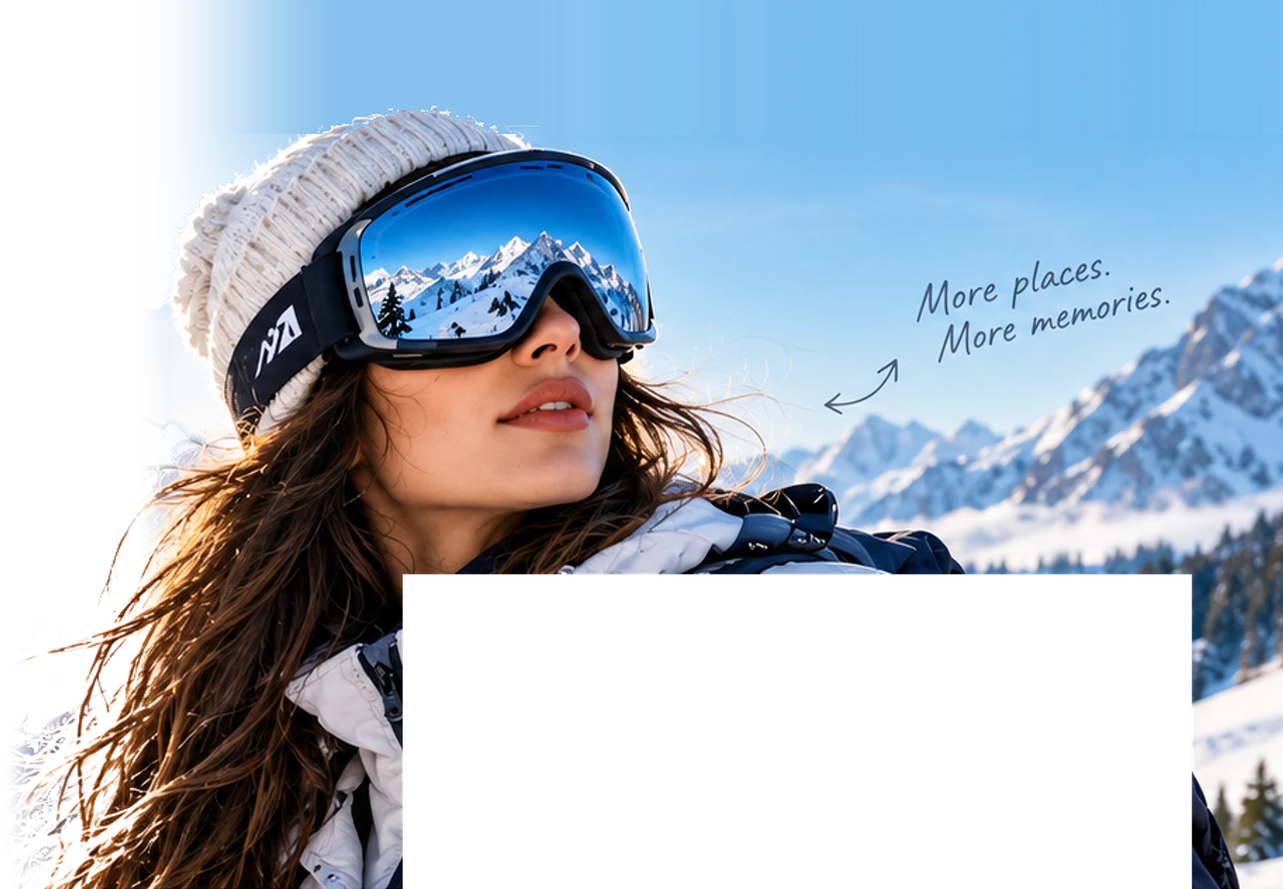
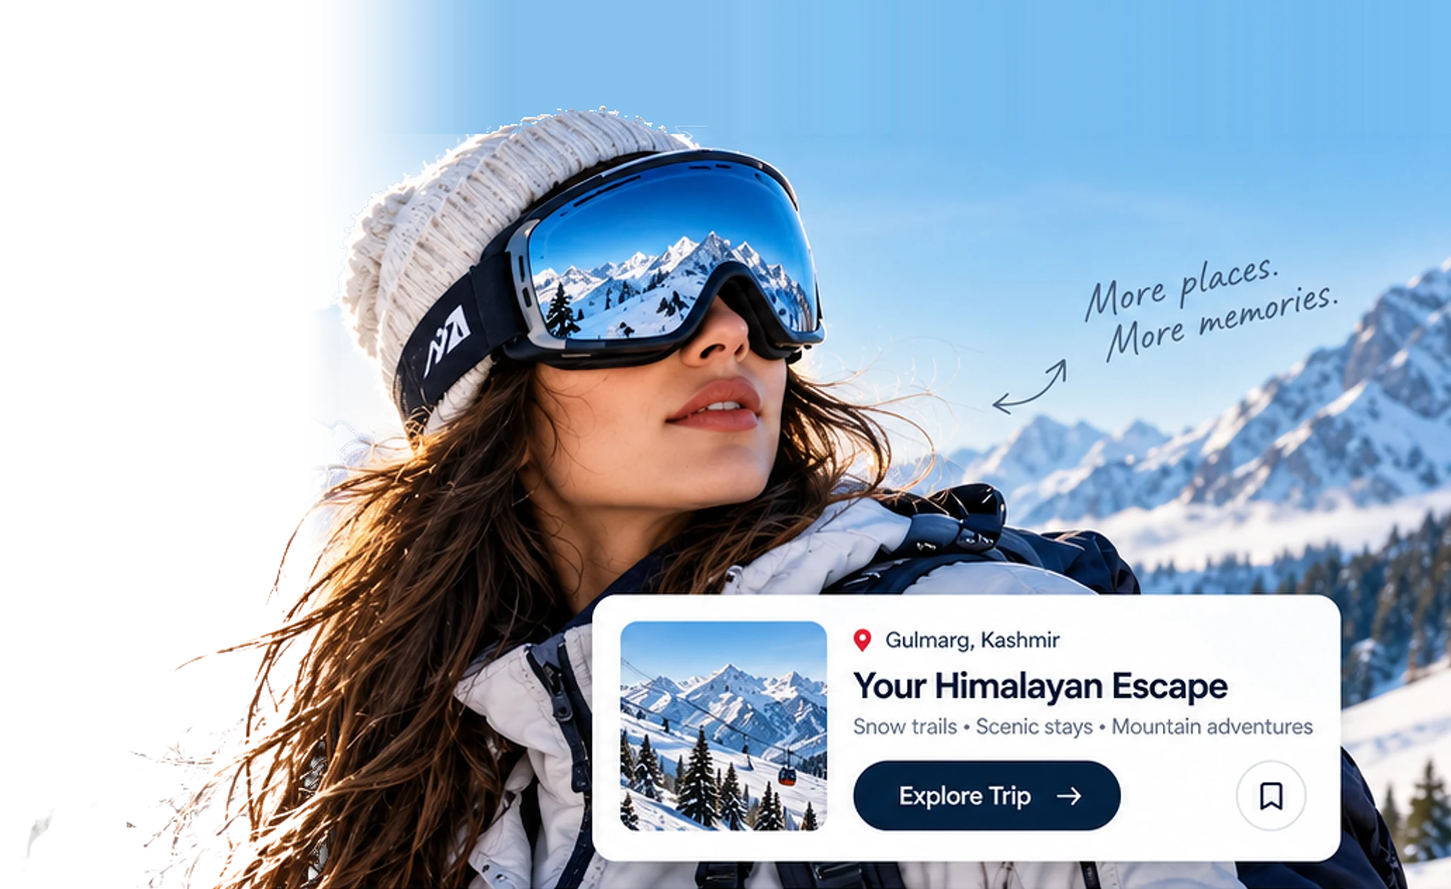
service_page

diff --git a/client/components/ServicesPage.tsx b/client/components/ServicesPage.tsx
@@ -1,7 +1,8 @@
 import React, { useState } from 'react';
 import { Link, useNavigate } from 'react-router-dom';
 import {
-  ArrowRight, Bookmark, Facebook, Instagram, Linkedin, MapPin, Menu, Minus, Play, Plus, Search, X, Youtube,
+  ArrowRight, Bookmark, Facebook, Instagram, Linkedin, MapPin, Menu, MessageCircle, Minus, Play, Plus, Search, X,
+  Youtube,
 } from 'lucide-react';
 import { servicePath } from '../data/winterPackages';
 import { getWhatsAppLink } from '../utils/whatsapp';
@@ -45,14 +46,14 @@ const SOCIALS = [
 ];
 
 const Brand: React.FC<{ light?: boolean }> = ({ light }) => (
-  <Link to="/" className="flex items-center gap-2.5 shrink-0" aria-label="Global Connect World Travel home">
-    <svg viewBox="0 0 64 36" className="w-12 h-7" aria-hidden="true">
+  <Link to="/" className="svc-brand flex items-center gap-2.5 shrink-0" aria-label="Global Connect World Travel home">
+    <svg viewBox="0 0 64 36" className="svc-brand-mark w-12 h-7" aria-hidden="true">
       <path d="M2 34 22 6l10 13 8-9 22 24h-9L40 20l-8 9L22 15 11 34z" fill={light ? '#14c8f5' : '#0b1630'} />
       <path d="M22 6 32 19l-4 5-6-9z" fill="#14c8f5" />
     </svg>
     <span className="leading-none">
-      <span className={`font-display block text-[19px] font-extrabold tracking-[-0.01em] ${light ? 'text-white' : 'text-[#0b1630]'}`}>WORLD TRAVEL</span>
-      <span className={`block mt-1 text-[8.5px] font-semibold tracking-[0.52em] ${light ? 'text-[#14c8f5]' : 'text-brand-dark/60'}`}>GLOBAL CONNECT</span>
+      <span className={`svc-brand-name font-display block text-[19px] font-extrabold tracking-[-0.01em] ${light ? 'text-white' : 'text-[#0b1630]'}`}>WORLD TRAVEL</span>
+      <span className={`svc-brand-tag block mt-1 text-[8.5px] font-semibold tracking-[0.52em] ${light ? 'text-[#14c8f5]' : 'text-brand-dark/60'}`}>GLOBAL CONNECT</span>
     </span>
   </Link>
 );
@@ -61,22 +62,22 @@ const Header: React.FC<{ onBookClick: () => void }> = ({ onBookClick }) => {
   const navigate = useNavigate();
   const [open, setOpen] = useState(false);
   return (
-    <header className="absolute z-30 top-3 lg:top-5 inset-x-3 lg:inset-x-[8.8vw]">
-      <div className="flex items-center gap-4 bg-white/95 backdrop-blur rounded-2xl lg:rounded-[22px] shadow-[0_10px_30px_rgba(2,40,91,0.10)] pl-5 pr-3 lg:pl-8 lg:pr-3 py-2.5">
+    <header className="svc-head absolute z-30 top-3 lg:top-5 inset-x-3 lg:inset-x-[4vw] xl:inset-x-[8.8vw]">
+      <div className="svc-head-bar flex items-center gap-4 bg-white/95 backdrop-blur rounded-2xl lg:rounded-[22px] shadow-[0_10px_30px_rgba(2,40,91,0.10)] pl-5 pr-3 lg:pl-8 lg:pr-3 py-2.5">
         <Brand />
-        <nav className="hidden lg:flex flex-1 justify-center gap-[2.6vw]">
+        <nav className="svc-nav hidden lg:flex flex-1 justify-center gap-[1.6vw]">
           {NAV.map(n => (
-            <Link key={n.to} to={n.to} className="text-[15px] font-medium text-[#0b1630] hover:text-[#0b8fd8] transition-colors">{n.label}</Link>
+            <Link key={n.to} to={n.to} className="whitespace-nowrap text-[14px] xl:text-[15px] font-medium text-[#0b1630] hover:text-[#0b8fd8] transition-colors">{n.label}</Link>
           ))}
         </nav>
-        <div className="ml-auto lg:ml-0 flex items-center gap-3">
-          <span className="hidden lg:block w-px h-8 bg-brand-dark/15" />
+        <div className="svc-head-right ml-auto lg:ml-0 flex items-center gap-3">
+          <span className="svc-div hidden xl:block w-px h-8 bg-brand-dark/15" />
           <button onClick={() => navigate('/search')} aria-label="Search tours"
-            className="hidden sm:flex w-11 h-11 rounded-full bg-slate-100 items-center justify-center hover:bg-slate-200 transition-colors">
+            className="svc-search hidden sm:flex lg:hidden xl:flex w-11 h-11 rounded-full bg-slate-100 items-center justify-center hover:bg-slate-200 transition-colors">
             <Search className="w-[18px] h-[18px] text-[#0b1630]" />
           </button>
-          <span className="hidden lg:block w-px h-8 bg-brand-dark/15" />
-          <button onClick={onBookClick} className={`${btnCyan} px-5 lg:px-6 py-2.5 lg:py-3 text-[15px]`}>
+          <span className="svc-div hidden xl:block w-px h-8 bg-brand-dark/15" />
+          <button onClick={onBookClick} className={`svc-plan ${btnCyan} max-sm:!hidden whitespace-nowrap shrink-0 px-5 lg:px-6 py-2.5 lg:py-3 text-[15px]`}>
             Plan My Trip <ArrowRight className="w-4 h-4" />
           </button>
           <button onClick={() => setOpen(v => !v)} aria-expanded={open} aria-label="Menu"
@@ -90,6 +91,9 @@ const Header: React.FC<{ onBookClick: () => void }> = ({ onBookClick }) => {
           {NAV.map(n => (
             <Link key={n.to} to={n.to} onClick={() => setOpen(false)} className="px-4 py-3 rounded-xl font-medium text-[#0b1630] hover:bg-slate-50">{n.label}</Link>
           ))}
+          <button onClick={() => { setOpen(false); onBookClick(); }} className={`sm:hidden ${btnCyan} justify-center m-2 px-5 py-3`}>
+            Plan My Trip <ArrowRight className="w-4 h-4" />
+          </button>
         </nav>
       )}
     </header>
@@ -152,32 +156,32 @@ const PageFooter: React.FC<{ onBookClick: () => void }> = ({ onBookClick }) => (
 const Hero: React.FC<{ onBookClick: () => void }> = ({ onBookClick }) => {
   const [saved, setSaved] = useState(false);
   return (
-    <section className="relative overflow-hidden w-full flex flex-col lg:min-h-[calc(44.4vw+400px)] bg-[#eaf2f9]">
+    <section className="svc-hero relative overflow-hidden w-full flex flex-col lg:min-h-[calc(44.4vw+400px)] bg-[#eaf2f9]">
       <Header onBookClick={onBookClick} />
       {/* Full-width snowy scene behind everything, with a light wash so the headline reads */}
       <div className="absolute inset-0 bg-[url('/images/services/hero-scene.webp')] bg-cover bg-no-repeat bg-[position:center_35%]" />
       <div className="absolute inset-0 bg-white/60 lg:bg-transparent lg:bg-gradient-to-r lg:from-white/55 lg:via-white/15 lg:to-transparent" />
 
-      {/* Original banner photo from the design. Phones: full width above the text, cropped above
-          the card printed into the photo. Desktop: on the right, standing on the destination strip,
-          with the live trip card sitting exactly over the printed one. */}
-      <div className="relative z-[1] order-first w-full aspect-[912/400] max-lg:mt-[76px] min-h-0 overflow-hidden lg:order-none lg:absolute lg:bottom-[330px] lg:right-0 lg:w-[64vw] lg:aspect-[912/632] lg:[--woman-shift:8%_0]">
-        <img src={S + 'hero-woman-wide.webp'} alt="Traveller in a white beanie and ski goggles in the snowy Himalayas" fetchPriority="high" style={{ translate: 'var(--woman-shift, 0)' }}
-          className="w-full h-full object-cover object-top [mask-image:linear-gradient(to_bottom,#000_80%,transparent)] lg:[mask-image:linear-gradient(to_bottom,transparent,#000_8%,#000_68%,rgba(0,0,0,0.55)_84%,transparent_97%)]" />
+      {/* Original banner photo from the design. Phones: full width above the text, cropped above the
+          printed card. Desktop: on the right with the live trip card over the printed one; at 1280px+
+          everything in this hero is placed at the design file's exact positions (index.css, .svc-*). */}
+      <div className="svc-woman max-lg:hidden relative z-[1] order-first w-full aspect-[1032/400] max-sm:aspect-[1.6] max-lg:mt-[76px] min-h-0 overflow-hidden lg:order-none lg:absolute lg:bottom-[330px] lg:right-0 lg:w-[64vw] lg:aspect-[1032/632]">
+        <img src={S + 'hero-woman-wide.webp'} alt="Traveller in a white beanie and ski goggles in the snowy Himalayas" fetchPriority="high"
+          className="svc-woman-img w-full h-full object-cover object-top max-sm:w-[165%] max-sm:max-w-none max-sm:h-auto max-sm:-ml-[24%] [mask-image:linear-gradient(to_bottom,#000_80%,transparent)] lg:[mask-image:linear-gradient(to_bottom,transparent,#000_8%,#000_90%,transparent)]" />
 
-        {/* featured trip card */}
-        <div className="hidden lg:flex absolute left-[36.5%] top-[65.2%] w-[60.4%] h-[32.2%] gap-4 bg-white rounded-2xl p-3.5 shadow-[0_20px_50px_rgba(2,40,91,0.18)]">
+        {/* featured trip card, laid over the one printed in the photo */}
+        <div className="svc-card hidden lg:flex absolute left-[39.73%] top-[65.2%] w-[53.39%] h-[32.2%] gap-4 bg-white rounded-2xl p-3.5 shadow-[0_20px_50px_rgba(2,40,91,0.18)]">
           <img src={S + 'card-gulmarg.webp'} alt="Gondola over snowy peaks and pine trees in Gulmarg" className="h-full aspect-square rounded-xl object-cover" />
           <div className="flex-1 min-w-0 flex flex-col justify-center">
-            <p className="flex items-center gap-1.5 text-xs text-brand-dark/70"><MapPin className="w-3.5 h-3.5 text-red-500 fill-red-500/20" /> Gulmarg, Kashmir</p>
-            <p className="font-display mt-1 text-xl font-bold tracking-[-0.02em] text-[#0b1630]">Your Himalayan Escape</p>
-            <p className="text-xs text-brand-dark/55">Snow trails • Scenic stays • Mountain adventures</p>
-            <div className="mt-3 flex items-center justify-between">
-              <Link to={servicePath('kashmir')} className="inline-flex items-center gap-2 bg-[#0b1630] text-white text-sm font-semibold px-5 py-2.5 rounded-full hover:bg-brand-dark transition-colors">
+            <p className="svc-card-loc flex items-center gap-1.5 text-[11px] xl:text-xs text-brand-dark/70"><MapPin className="w-3.5 h-3.5 text-red-500 fill-red-500/20" /> Gulmarg, Kashmir</p>
+            <p className="svc-card-title font-display mt-0.5 xl:mt-1 text-[17px] xl:text-xl leading-tight font-bold tracking-[-0.02em] text-[#0b1630]">Your Himalayan Escape</p>
+            <p className="svc-card-sub hidden xl:block text-xs text-brand-dark/55">Snow trails • Scenic stays • Mountain adventures</p>
+            <div className="svc-card-row mt-2 xl:mt-3 flex items-center justify-between">
+              <Link to={servicePath('kashmir')} className="svc-card-btn inline-flex items-center gap-2 bg-[#0b1630] text-white text-xs xl:text-sm font-semibold px-4 xl:px-5 py-2 xl:py-2.5 rounded-full hover:bg-brand-dark transition-colors">
                 Explore Trip <ArrowRight className="w-4 h-4" />
               </Link>
               <button onClick={() => setSaved(v => !v)} aria-pressed={saved} aria-label={saved ? 'Remove from saved trips' : 'Save this trip'}
-                className="w-10 h-10 rounded-full border border-brand-dark/15 flex items-center justify-center hover:bg-slate-50">
+                className="svc-card-save w-8 h-8 xl:w-10 xl:h-10 rounded-full border border-brand-dark/15 flex items-center justify-center hover:bg-slate-50">
                 <Bookmark className={`w-4 h-4 text-brand-dark ${saved ? 'fill-brand-dark' : ''}`} />
               </button>
             </div>
@@ -185,22 +189,22 @@ const Hero: React.FC<{ onBookClick: () => void }> = ({ onBookClick }) => {
         </div>
       </div>
 
-      <div className="relative z-10 lg:flex-1 w-full mx-auto px-5 md:px-10 lg:px-[7vw] pt-8 lg:pt-[150px] pb-10 pointer-events-none [&_a]:pointer-events-auto">
-        <p className="flex items-center gap-3 text-xs font-semibold tracking-[0.18em] text-brand-dark/70 uppercase">
+      <div className="svc-copy relative z-10 lg:flex-1 w-full mx-auto px-5 md:px-10 lg:px-[7vw] pt-[112px] lg:pt-[150px] pb-10 pointer-events-none [&_a]:pointer-events-auto">
+        <p className="svc-eyebrow flex items-center gap-3 text-xs font-semibold tracking-[0.18em] text-brand-dark/70 uppercase">
           <span className="w-10 h-px bg-brand-dark/50" /> Explore Incredible India
         </p>
-        <h1 className="font-display mt-4 text-[44px] sm:text-6xl lg:text-[clamp(60px,5.5vw,112px)] font-extrabold leading-[0.95] tracking-[-0.045em] text-[#0b1630] whitespace-nowrap">
+        <h1 className="svc-h1 font-display mt-4 text-[clamp(32px,10.4vw,44px)] sm:text-6xl lg:text-[clamp(60px,5.5vw,112px)] font-extrabold leading-[0.95] tracking-[-0.045em] text-[#0b1630] whitespace-nowrap">
           Chase Mountains.<br />Make Memories.
         </h1>
-        <p className="mt-5 text-lg md:text-xl lg:text-[clamp(20px,1.4vw,28px)] text-brand-dark/75 max-w-[34vw] max-lg:max-w-lg">
+        <p className="svc-sub mt-5 text-lg md:text-xl lg:text-[clamp(20px,1.4vw,28px)] text-brand-dark/75 max-w-[34vw] max-lg:max-w-lg">
           Discover breathtaking escapes, handpicked stays and unforgettable journeys across India.
         </p>
 
-        <div className="mt-8 flex flex-wrap items-center gap-6">
-          <Link to="/india-tours" className={`${btnCyan} px-8 py-4 text-lg`}>
+        <div className="svc-ctas mt-8 flex flex-wrap items-center gap-6">
+          <Link to="/india-tours" className={`svc-cta-main ${btnCyan} px-8 py-4 text-lg`}>
             Explore Tours <ArrowRight className="w-5 h-5" />
           </Link>
-          <Link to="/about" className="group flex items-center gap-4">
+          <Link to="/about" className="svc-watch group flex items-center gap-4">
             <span className="w-14 h-14 rounded-full bg-white shadow-lg flex items-center justify-center group-hover:scale-105 transition-transform">
               <Play className="w-5 h-5 text-brand-dark fill-brand-dark ml-0.5" />
             </span>
@@ -211,15 +215,15 @@ const Hero: React.FC<{ onBookClick: () => void }> = ({ onBookClick }) => {
           </Link>
         </div>
 
-        <ul className="mt-10 flex flex-wrap items-center text-white text-base font-semibold"
+        <ul className="svc-hl mt-10 flex flex-wrap items-center text-white text-base font-semibold"
           style={{ textShadow: '0 1px 2px rgba(2,22,48,0.95), 0 2px 12px rgba(2,22,48,0.8)' }}>
           {HIGHLIGHTS.map((h, i) => (
-            <li key={h} className={`py-1 pr-6 ${i ? 'pl-6 border-l border-white/80' : ''}`}>{h}</li>
+            <li key={h} className={`py-1 pr-4 sm:pr-6 ${i ? 'sm:pl-6 sm:border-l border-white/80' : ''}`}>{h}</li>
           ))}
         </ul>
       </div>
 
-      <div className="relative z-20 w-full mx-auto px-5 md:px-10 lg:px-[3.7vw] pb-10">
+      <div className="svc-strip-wrap relative z-20 w-full mx-auto px-5 md:px-10 lg:px-[3.7vw] pb-10">
         <Escapes onBookClick={onBookClick} />
       </div>
     </section>
@@ -228,8 +232,8 @@ const Hero: React.FC<{ onBookClick: () => void }> = ({ onBookClick }) => {
 
 // ---------- destination strip ----------
 const Escapes: React.FC<{ onBookClick: () => void }> = ({ onBookClick }) => (
-  <div className="bg-white rounded-3xl shadow-[0_24px_60px_rgba(2,40,91,0.14)] p-4 md:p-5 grid gap-4 grid-cols-1 sm:grid-cols-2 lg:grid-cols-[1.35fr_1fr_1fr_1fr_1.6fr]">
-    <div className="flex flex-col justify-center px-3 py-3 sm:col-span-2 lg:col-span-1">
+  <div className="svc-strip bg-white rounded-3xl shadow-[0_24px_60px_rgba(2,40,91,0.14)] p-4 md:p-5 grid gap-4 grid-cols-1 sm:grid-cols-3 lg:grid-cols-[1.35fr_1fr_1fr_1fr_1.6fr]">
+    <div className="svc-strip-intro flex flex-col justify-center px-3 py-3 sm:col-span-3 lg:col-span-1">
       <p className="flex items-center gap-3 text-[11px] font-semibold tracking-[0.15em] text-brand-dark/60 uppercase">
         <span className="w-7 h-px bg-brand-dark/40" /> Explore India
       </p>
@@ -242,16 +246,16 @@ const Escapes: React.FC<{ onBookClick: () => void }> = ({ onBookClick }) => (
     </div>
 
     {ESCAPES.map(e => (
-      <Link key={e.id} to={servicePath(e.id)} className="group relative h-[170px] lg:h-[210px] rounded-2xl overflow-hidden">
+      <Link key={e.id} to={servicePath(e.id)} className="svc-tile group relative h-[170px] lg:h-[210px] rounded-2xl overflow-hidden">
         <img src={e.img} alt={e.alt} loading="lazy" className="w-full h-full object-cover group-hover:scale-105 transition-transform duration-500" />
         <div className="absolute inset-0 bg-gradient-to-t from-black/55 via-transparent to-transparent" />
-        <span className="absolute left-4 bottom-3.5 flex items-center gap-2 text-white text-lg font-semibold">
+        <span className="svc-tile-label absolute left-4 bottom-3.5 flex items-center gap-2 text-white text-lg font-semibold">
           <MapPin className="w-5 h-5 fill-white text-white [&>circle]:fill-black/40" /> {e.name}
         </span>
       </Link>
     ))}
 
-    <div className="relative h-[170px] lg:h-[210px] rounded-2xl overflow-hidden sm:col-span-2 lg:col-span-1 bg-[#0b1630] bg-[url('/images/services/journey-card.webp')] bg-cover bg-[position:right_center]">
+    <div className="svc-journey relative h-[170px] lg:h-[210px] rounded-2xl overflow-hidden sm:col-span-3 lg:col-span-1 bg-[#0b1630] bg-[url('/images/services/journey-card.webp')] bg-cover bg-[position:right_center]">
       <div className="absolute inset-0 bg-gradient-to-r from-[#0b1630] via-[#0b1630]/75 to-transparent" />
       <div className="relative h-full flex flex-col justify-center px-6 text-white">
         <p className="font-display text-[28px] font-bold leading-[1.05] tracking-[-0.03em]">A journey<br />made for you.</p>
@@ -309,10 +313,40 @@ const Faq: React.FC = () => {
   );
 };
 
+// ---------- call to action ----------
+const CallToAction: React.FC<{ onBookClick: () => void }> = ({ onBookClick }) => (
+  <section className="px-5 md:px-10 lg:px-[3.7vw] pb-14 md:pb-20">
+    <div className="relative overflow-hidden rounded-3xl lg:rounded-[28px] bg-[#0b1630] bg-[url('/images/services/cta-woman.webp')] bg-cover bg-[position:center_35%] max-lg:bg-[position:40%_35%] shadow-[0_24px_60px_rgba(2,40,91,0.18)]">
+      <div className="absolute inset-0 bg-gradient-to-r from-[#0b1630] from-5% via-[#0b1630]/75 via-40% to-transparent to-68% max-md:to-[#0b1630]/55 max-md:to-100%" />
+      <div className="relative px-6 py-12 md:px-14 md:py-16 lg:px-[5vw] lg:py-[4.5vw] max-w-3xl text-white">
+        <p className="flex items-center gap-3 text-xs font-semibold tracking-[0.15em] text-[#14c8f5] uppercase">
+          <span className="w-10 h-0.5 bg-[#14c8f5]" /> Plan with an expert
+        </p>
+        <h2 className="font-display mt-4 text-[36px] md:text-[52px] lg:text-[clamp(48px,3.6vw,68px)] font-extrabold leading-[1] tracking-[-0.045em]">
+          Ready for your<br />next escape?
+        </h2>
+        <p className="mt-5 text-base md:text-lg text-white/85 max-w-xl">
+          Tell us your dates, group size and budget. Our travel experts will send you a tailored itinerary and quote, usually within a day.
+        </p>
+        <div className="mt-8 flex flex-wrap items-center gap-4">
+          <button onClick={onBookClick} className={`${btnCyan} px-8 py-4 text-lg`}>
+            Plan My Trip <ArrowRight className="w-5 h-5" />
+          </button>
+          <a href={getWhatsAppLink('Hi! I would like to plan a trip in India.')} target="_blank" rel="noopener noreferrer"
+            className="inline-flex items-center gap-3 border border-white/70 text-white font-semibold rounded-full px-7 py-4 text-lg hover:bg-white hover:text-[#0b1630] transition-colors">
+            <MessageCircle className="w-5 h-5" /> WhatsApp Us
+          </a>
+        </div>
+      </div>
+    </div>
+  </section>
+);
+
 const ServicesPage: React.FC<{ onBookClick: () => void }> = ({ onBookClick }) => (
   <div className="bg-white">
     <Hero onBookClick={onBookClick} />
     <Faq />
+    <CallToAction onBookClick={onBookClick} />
     <PageFooter onBookClick={onBookClick} />
   </div>
 );

diff --git a/client/index.css b/client/index.css
@@ -135,3 +135,78 @@ html {
 .font-display {
     font-family: 'Inter Tight', var(--font-sans) !important;
 }
+
+/* /services highlights: dark text below 1024px, where light snow sits behind them */
+@media (max-width: 1023px) {
+    .svc-hl { color: #0b1630; text-shadow: none !important; }
+    .svc-hl li { border-color: rgba(11, 22, 48, 0.25); }
+}
+
+/* ---------- /services hero: exact design layout on screens 1280px and wider ----------
+   Every number below is a pixel position measured on the 1672x941 design file
+   ("Kashmir Escape" mockup); --u is one design pixel at the current banner width. */
+@media (min-width: 1280px) {
+    .svc-hero { container-type: inline-size; display: block; aspect-ratio: 1672 / 941; min-height: 0; --u: calc(100cqw / 1672); }
+
+    .svc-head { top: calc(30 * var(--u)); left: calc(118 * var(--u)); right: calc(117 * var(--u)); }
+    .svc-head-bar { height: calc(76 * var(--u)); padding: 0 calc(18 * var(--u)) 0 calc(40 * var(--u)); border-radius: calc(26 * var(--u)); gap: 0; }
+    .svc-head .svc-brand { gap: calc(13 * var(--u)); }
+    .svc-head .svc-brand-mark { width: calc(77 * var(--u)); height: calc(36 * var(--u)); }
+    .svc-head .svc-brand-name { font-size: calc(27 * var(--u)); }
+    .svc-head .svc-brand-tag { font-size: calc(10 * var(--u)); margin-top: calc(5 * var(--u)); letter-spacing: 0.58em; }
+    .svc-nav { flex: none; justify-content: flex-start; margin-left: calc(106 * var(--u)); gap: calc(41 * var(--u)); }
+    .svc-nav a { font-size: calc(17 * var(--u)); }
+    .svc-head-right { margin-left: auto; gap: calc(20 * var(--u)); }
+    .svc-div { height: calc(36 * var(--u)); }
+    .svc-search { width: calc(50 * var(--u)); height: calc(50 * var(--u)); }
+    .svc-search svg { width: calc(20 * var(--u)); height: calc(20 * var(--u)); }
+    .svc-plan { height: calc(54 * var(--u)); padding: 0 calc(24 * var(--u)) 0 calc(32 * var(--u)); font-size: calc(18 * var(--u)); gap: calc(12 * var(--u)); }
+    .svc-plan svg { width: calc(20 * var(--u)); height: calc(20 * var(--u)); }
+
+    .svc-woman { position: absolute; left: calc(640 * var(--u)); top: calc(18 * var(--u)); right: auto; bottom: auto; width: calc(1032 * var(--u)); height: calc(632 * var(--u)); aspect-ratio: auto; margin: 0; }
+    .svc-woman-img { mask-image: linear-gradient(to bottom, transparent, #000 8%); -webkit-mask-image: linear-gradient(to bottom, transparent, #000 8%); }
+    .svc-card { left: 40.7%; top: 66.6%; width: 51.8%; height: 30.3%; padding: calc(19 * var(--u)); gap: calc(18 * var(--u)); border-radius: calc(22 * var(--u)); }
+    .svc-card > img { border-radius: calc(14 * var(--u)); }
+    .svc-card-loc { font-size: calc(14.5 * var(--u)); gap: calc(7 * var(--u)); }
+    .svc-card-loc svg { width: calc(17 * var(--u)); height: calc(17 * var(--u)); }
+    .svc-card-title { font-size: calc(26 * var(--u)); margin-top: calc(6 * var(--u)); }
+    .svc-card-sub { font-size: calc(14.5 * var(--u)); margin-top: calc(4 * var(--u)); }
+    .svc-card-row { margin-top: calc(18 * var(--u)); }
+    .svc-card-btn { height: calc(48 * var(--u)); padding: 0 calc(24 * var(--u)) 0 calc(32 * var(--u)); font-size: calc(17 * var(--u)); gap: calc(14 * var(--u)); }
+    .svc-card-btn svg { width: calc(20 * var(--u)); height: calc(20 * var(--u)); }
+    .svc-card-save { width: calc(48 * var(--u)); height: calc(48 * var(--u)); }
+    .svc-card-save svg { width: calc(19 * var(--u)); height: calc(19 * var(--u)); }
+
+    .svc-copy { position: absolute; inset: 0; padding: 0; margin: 0; max-width: none; }
+    .svc-eyebrow { position: absolute; left: calc(120 * var(--u)); top: calc(163 * var(--u)); margin: 0; font-size: calc(14 * var(--u)); letter-spacing: 0.06em; gap: calc(15 * var(--u)); }
+    .svc-eyebrow span { width: calc(40 * var(--u)); }
+    .svc-h1 { position: absolute; left: calc(114 * var(--u)); top: calc(196 * var(--u)); margin: 0; font-size: calc(92 * var(--u)); line-height: calc(85 * var(--u)); letter-spacing: -0.022em; }
+    .svc-sub { position: absolute; left: calc(121 * var(--u)); top: calc(375 * var(--u)); margin: 0; font-size: calc(23 * var(--u)); line-height: calc(32 * var(--u)); max-width: calc(545 * var(--u)); }
+    .svc-ctas { position: absolute; left: calc(118 * var(--u)); top: calc(468 * var(--u)); margin: 0; gap: calc(24 * var(--u)); }
+    .svc-cta-main { height: calc(69 * var(--u)); padding: 0 calc(38 * var(--u)) 0 calc(44 * var(--u)); font-size: calc(20 * var(--u)); gap: calc(14 * var(--u)); }
+    .svc-cta-main svg { width: calc(24 * var(--u)); height: calc(24 * var(--u)); }
+    .svc-watch { gap: calc(21 * var(--u)); }
+    .svc-watch > span:first-child { width: calc(68 * var(--u)); height: calc(68 * var(--u)); }
+    .svc-watch > span:first-child svg { width: calc(22 * var(--u)); height: calc(22 * var(--u)); }
+    .svc-watch > span:last-child > span { font-size: calc(20 * var(--u)); line-height: calc(24 * var(--u)); }
+    .svc-hl { position: absolute; left: calc(122 * var(--u)); top: calc(578 * var(--u)); margin: 0; font-size: calc(18.5 * var(--u)); }
+    .svc-hl li { display: flex; align-items: center; height: calc(40 * var(--u)); padding: 0 calc(23 * var(--u)) 0 0; }
+    .svc-hl li + li { padding-left: calc(33 * var(--u)); }
+
+    .svc-strip-wrap { position: absolute; left: calc(62 * var(--u)); top: calc(650 * var(--u)); width: calc(1548 * var(--u)); height: calc(252 * var(--u)); padding: 0; margin: 0; max-width: none; }
+    .svc-strip { height: 100%; padding: calc(20 * var(--u)); gap: calc(20 * var(--u)); border-radius: calc(26 * var(--u)); grid-template-columns: 301fr 242fr 245fr 243fr 397fr; }
+    .svc-strip-intro { padding: 0 0 0 calc(18 * var(--u)); }
+    .svc-strip-intro > p { font-size: calc(13.5 * var(--u)); gap: calc(14 * var(--u)); letter-spacing: 0.06em; }
+    .svc-strip-intro > p span { width: calc(34 * var(--u)); }
+    .svc-strip-intro > h2 { font-size: calc(47 * var(--u)); line-height: calc(48 * var(--u)); margin-top: calc(10 * var(--u)); letter-spacing: -0.045em; }
+    .svc-strip-intro > a { margin-top: calc(22 * var(--u)); height: calc(56 * var(--u)); padding: 0 calc(30 * var(--u)) 0 calc(42 * var(--u)); font-size: calc(18 * var(--u)); gap: calc(16 * var(--u)); }
+    .svc-strip-intro > a svg { width: calc(22 * var(--u)); height: calc(22 * var(--u)); }
+    .svc-tile, .svc-journey { height: 100%; border-radius: calc(16 * var(--u)); }
+    .svc-tile-label { left: calc(20 * var(--u)); bottom: calc(18 * var(--u)); font-size: calc(21 * var(--u)); gap: calc(10 * var(--u)); }
+    .svc-tile-label svg { width: calc(25 * var(--u)); height: calc(25 * var(--u)); }
+    .svc-journey > div:last-child { padding: 0 calc(30 * var(--u)); }
+    .svc-journey > div:last-child > p:first-child { font-size: calc(31 * var(--u)); line-height: calc(33 * var(--u)); }
+    .svc-journey > div:last-child > p:nth-child(2) { font-size: calc(15.5 * var(--u)); line-height: calc(19 * var(--u)); margin-top: calc(14 * var(--u)); max-width: calc(220 * var(--u)); }
+    .svc-journey > div:last-child > button { margin-top: calc(16 * var(--u)); height: calc(46 * var(--u)); padding: 0 calc(22 * var(--u)) 0 calc(26 * var(--u)); font-size: calc(17 * var(--u)); gap: calc(12 * var(--u)); }
+    .svc-journey > div:last-child > button svg { width: calc(20 * var(--u)); height: calc(20 * var(--u)); }
+}
